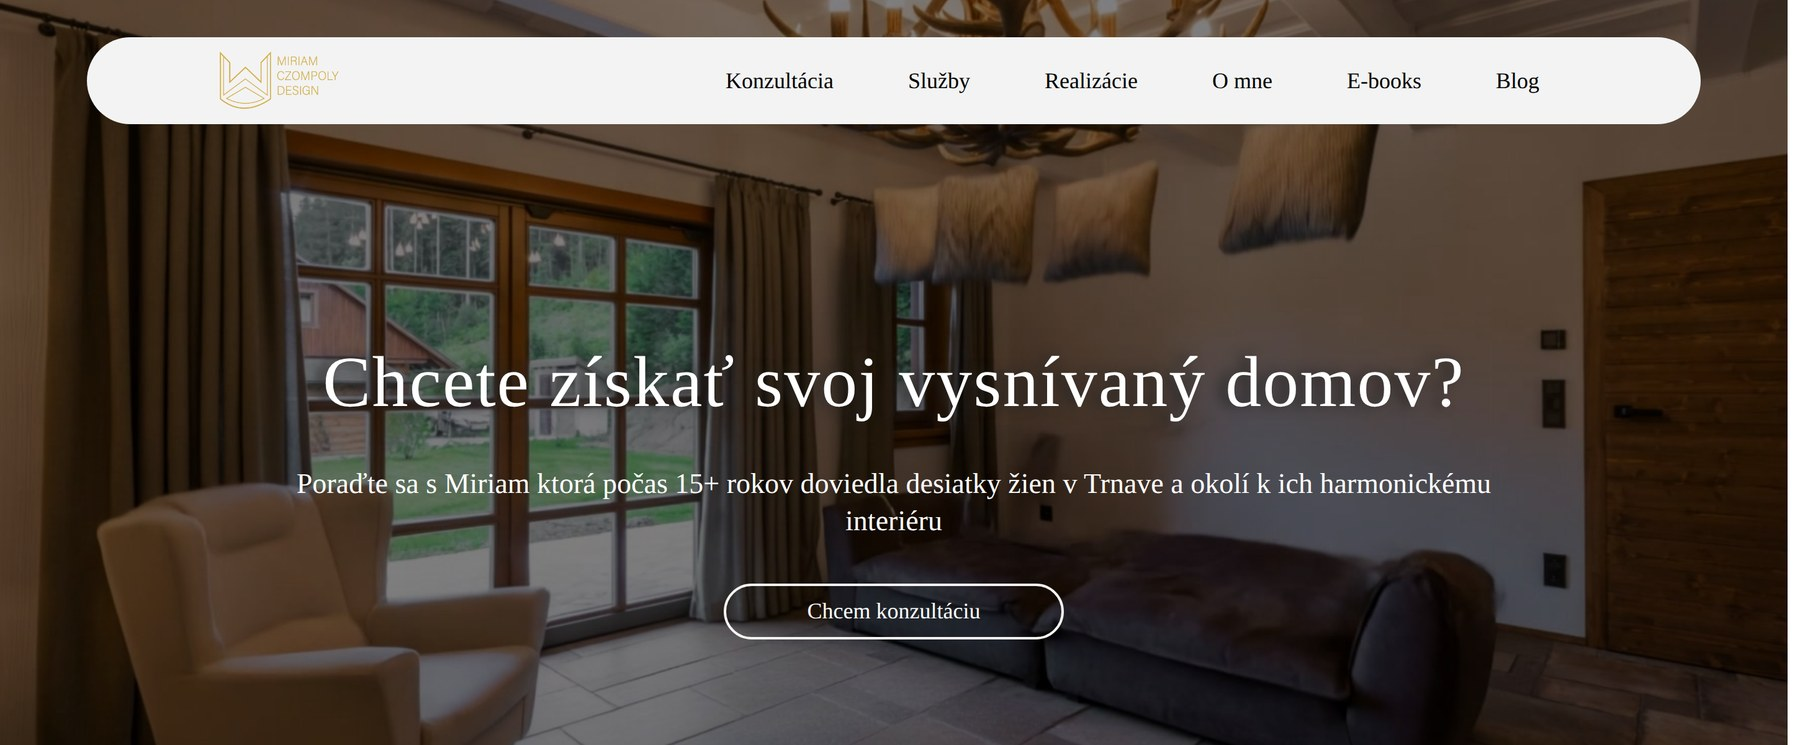
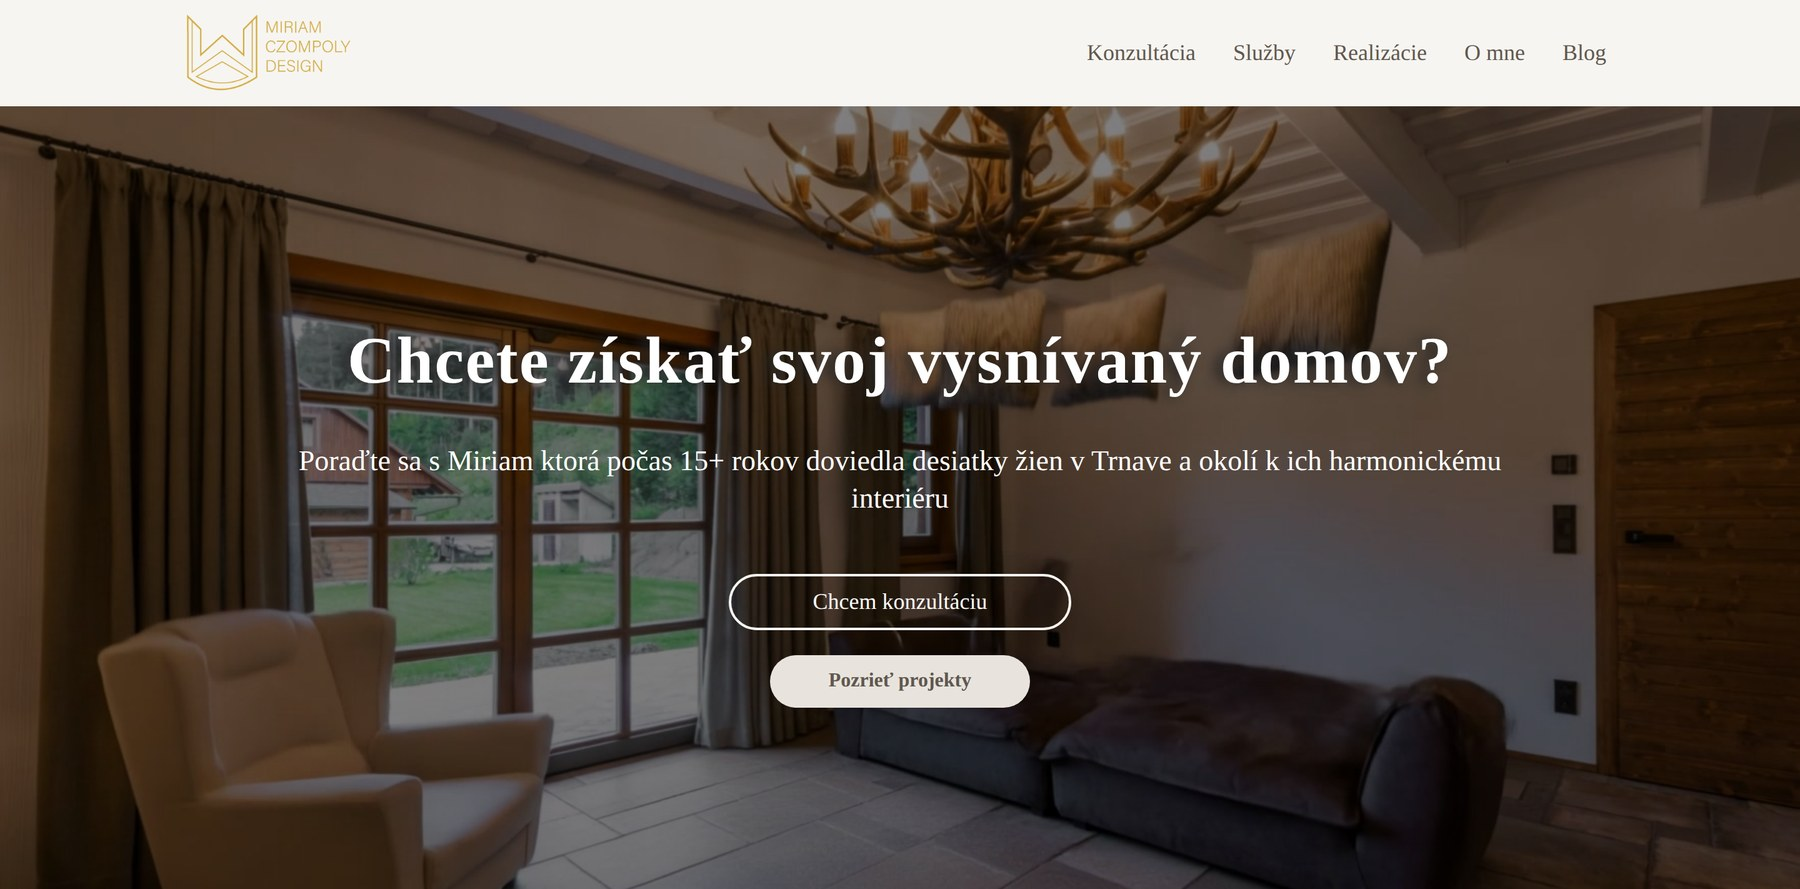
Prekresliť landing page z ostrej adresy miriamczompoly.sk
Predtým boli obrázky z /domov-967659, čo je iná verzia stránky. Ostrá
verzia má navigáciu nad herom, v hero dve tlačidlá a e-booky hneď za
úvodom, nie až na konci. Podľa toho sa prerezali obrázky aj prepísal
odsek Riešenie.

Sekcia Moje projekty je aj na ostrej stránke prázdny pás pod nadpisom,
tak v portfóliu nie je.

Claude-Session: https://claude.ai/code/session_01CRJ8GE4B9NBudRKNSE36EN

diff --git a/projekt/miriam-czompoly.html b/projekt/miriam-czompoly.html
@@ -78,7 +78,7 @@
 
   <section class="cs-hero">
     <div class="container">
-      <a class="cs-hero-img zoom" href="../assets/projects/miriam-czompoly/01-uvodna-obrazovka.jpg" data-cap="Úvodná obrazovka s videom interiéru a prvou výzvou"><img src="../assets/projects/miriam-czompoly/01-uvodna-obrazovka.jpg" alt="Miriam Czompoly Design"></a>
+      <a class="cs-hero-img zoom" href="../assets/projects/miriam-czompoly/01-uvodna-obrazovka.jpg" data-cap="Úvodná obrazovka s videom interiéru a dvomi výzvami"><img src="../assets/projects/miriam-czompoly/01-uvodna-obrazovka.jpg" alt="Miriam Czompoly Design"></a>
     </div>
   </section>
 
@@ -97,7 +97,7 @@
   <section class="cs-prose">
     <div class="container">
       <div class="cs-block"><h2>Zadanie</h2><p>Miriam Czompoly navrhuje interiéry v Trnave od roku 2010. Potrebovala jednu stránku, ktorá z návštevníka spraví človeka, čo si rezervuje bezplatný úvodný hovor, a ktorá zároveň zrozumiteľne vysvetlí tri úrovne spolupráce, od jednorazovej konzultácie doma až po kompletný návrh interiéru na mieru. Cieľovou skupinou sú ženy, ktoré rekonštruujú alebo zariaďujú vlastné bývanie a boja sa, že spravia drahú chybu.</p></div>
-      <div class="cs-block"><h2>Riešenie</h2><p>Celá stránka má jediný cieľ, rezervovaný hovor, a preto sa výzva opakuje po každej sekcii, zakaždým inými slovami. Hore beží tiché video skutočného interiéru stlmené na polovicu, aby text nad ním ostal čitateľný, a nadpis je otázka, nie tvrdenie. Sekciu o autorke som poskladala z rozbaľovacích otázok, ktoré si návštevník otvorí len tie, čo ho zaujímajú, takže dlhý text nikoho neodplaší. Služby sú tri karty a v každej je cena aj jedna veta v úvodzovkách, ktorá povie, kedy si ktorú vybrať, lebo najčastejšia otázka nie je čo to stojí, ale čo z toho je pre mňa. Na konci sú tri e-booky zadarmo pre ľudí, ktorí ešte nie sú pripravení volať. Typografia stojí na pätkovom písme v nadpisoch a na zlatej ako jedinej farbe navyše k čiernej a krémovej.</p></div>
+      <div class="cs-block"><h2>Riešenie</h2><p>Celá stránka má jediný cieľ, rezervovaný hovor, a preto sa výzva opakuje po každej sekcii, zakaždým inými slovami. Hore beží tiché video skutočného interiéru stlmené na polovicu, aby text nad ním ostal čitateľný, nadpis je otázka, nie tvrdenie, a hneď pod ním sú dve tlačidlá pre dva typy návštevníkov: kto je rozhodnutý, klikne na konzultáciu, kto sa len pozerá, na projekty. Hneď za úvodom idú tri e-booky zadarmo, lebo väčšina ľudí prvýkrát nechce volať, ale kontakt nechá výmenou za niečo užitočné. Sekciu o autorke som poskladala z rozbaľovacích otázok, takže si návštevník otvorí len to, čo ho zaujíma, a dlhý text nikoho neodplaší. Služby sú tri karty a v každej je cena aj jedna veta v úvodzovkách, ktorá povie, kedy si ktorú vybrať, lebo najčastejšia otázka nie je čo to stojí, ale čo z toho je pre mňa. Typografia stojí na pätkovom písme v nadpisoch a na zlatej ako jedinej farbe navyše k čiernej a krémovej.</p></div>
       <div class="cs-block"><h2>Prečo takto</h2><p>Pri weboch ma najviac naučilo, že dizajn nekončí pri tom, ako to vyzerá. Musela som rozmýšľať, v ktorom momente je človek ochotný nechať kontakt a čo potrebuje vedieť predtým. Preto je na stránke aj cena, aj vetička kedy si ktorú službu vybrať, hoci by bez nich vyzerala čistejšie.</p></div>
     </div>
   </section>
@@ -106,11 +106,11 @@
     <div class="container">
       <p class="g-hint">Kliknutím sa obrázok zväčší.</p>
       <div class="g-grid frame-landscape">
-        <figure class="g-item"><a class="g-frame zoom" href="../assets/projects/miriam-czompoly/02-o-mne.jpg" data-cap="O autorke, dlhý text schovaný do rozbaľovacích otázok"><img src="../assets/projects/miriam-czompoly/02-o-mne.jpg" alt="O autorke, dlhý text schovaný do rozbaľovacích otázok" loading="lazy"></a><figcaption>O autorke, dlhý text schovaný do rozbaľovacích otázok</figcaption></figure>
-        <figure class="g-item"><a class="g-frame zoom" href="../assets/projects/miriam-czompoly/03-sluzby.jpg" data-cap="Tri úrovne spolupráce, každá s cenou a s vetou kedy si ju vybrať"><img src="../assets/projects/miriam-czompoly/03-sluzby.jpg" alt="Tri úrovne spolupráce, každá s cenou a s vetou kedy si ju vybrať" loading="lazy"></a><figcaption>Tri úrovne spolupráce, každá s cenou a s vetou kedy si ju vybrať</figcaption></figure>
-        <figure class="g-item"><a class="g-frame zoom" href="../assets/projects/miriam-czompoly/04-ebooky.jpg" data-cap="E-booky zadarmo pre návštevníkov, ktorí ešte nechcú volať"><img src="../assets/projects/miriam-czompoly/04-ebooky.jpg" alt="E-booky zadarmo pre návštevníkov, ktorí ešte nechcú volať" loading="lazy"></a><figcaption>E-booky zadarmo pre návštevníkov, ktorí ešte nechcú volať</figcaption></figure>
+        <figure class="g-item"><a class="g-frame zoom" href="../assets/projects/miriam-czompoly/02-ebooky.jpg" data-cap="E-booky zadarmo hneď za úvodom, pre návštevníkov, ktorí ešte nechcú volať"><img src="../assets/projects/miriam-czompoly/02-ebooky.jpg" alt="E-booky zadarmo hneď za úvodom, pre návštevníkov, ktorí ešte nechcú volať" loading="lazy"></a><figcaption>E-booky zadarmo hneď za úvodom, pre návštevníkov, ktorí ešte nechcú volať</figcaption></figure>
+        <figure class="g-item"><a class="g-frame zoom" href="../assets/projects/miriam-czompoly/03-o-mne.jpg" data-cap="O autorke, dlhý text schovaný do rozbaľovacích otázok"><img src="../assets/projects/miriam-czompoly/03-o-mne.jpg" alt="O autorke, dlhý text schovaný do rozbaľovacích otázok" loading="lazy"></a><figcaption>O autorke, dlhý text schovaný do rozbaľovacích otázok</figcaption></figure>
+        <figure class="g-item"><a class="g-frame zoom" href="../assets/projects/miriam-czompoly/04-sluzby.jpg" data-cap="Tri úrovne spolupráce, každá s cenou a s vetou kedy si ju vybrať"><img src="../assets/projects/miriam-czompoly/04-sluzby.jpg" alt="Tri úrovne spolupráce, každá s cenou a s vetou kedy si ju vybrať" loading="lazy"></a><figcaption>Tri úrovne spolupráce, každá s cenou a s vetou kedy si ju vybrať</figcaption></figure>
         <figure class="g-item"><a class="g-frame zoom" href="../assets/projects/miriam-czompoly/06-mobil.jpg" data-cap="Mobilná verzia, väčšina návštev prichádza z telefónu"><img src="../assets/projects/miriam-czompoly/06-mobil.jpg" alt="Mobilná verzia, väčšina návštev prichádza z telefónu" loading="lazy"></a><figcaption>Mobilná verzia, väčšina návštev prichádza z telefónu</figcaption></figure>
-        <figure class="g-item"><a class="g-frame zoom" href="../assets/projects/miriam-czompoly/05-pata.jpg" data-cap="Pätička s kontaktom a poslednou výzvou"><img src="../assets/projects/miriam-czompoly/05-pata.jpg" alt="Pätička s kontaktom a poslednou výzvou" loading="lazy"></a><figcaption>Pätička s kontaktom a poslednou výzvou</figcaption></figure>
+        <figure class="g-item"><a class="g-frame zoom" href="../assets/projects/miriam-czompoly/05-pata.jpg" data-cap="Pätička s kontaktom"><img src="../assets/projects/miriam-czompoly/05-pata.jpg" alt="Pätička s kontaktom" loading="lazy"></a><figcaption>Pätička s kontaktom</figcaption></figure>
       </div>
     </div>
   </section>
